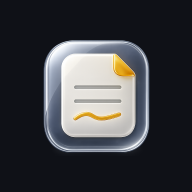
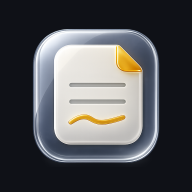
ui: maskable 아이콘 확대 + 북 테마를 전자책 리더처럼
[1. 맥에서 아이콘이 작게 보이던 문제]
크롬은 설치형 앱 아이콘으로 maskable을 쓰는데, 그건 안드로이드 원형 크롭
대비로 0.62(실제 아트 55%)로 잡아둔 값이라 맥/데스크톱에서는 여백만 커 보였다.
- 0.62 → 0.74 (실제 아트 66%)
- 안전구역 계산상 내접 정사각형은 0.566이지만, 실제 마스크는 대부분
  squircle/둥근사각형이라 훨씬 크고 우리 아트도 둥근 사각형이라
  모서리가 조금 잘려도 티가 안 난다. 0.62는 지나치게 보수적이었다

[2. 북 테마 — 전자책 느낌]
기존엔 본문 폰트만 세리프라 "책"보다 "베이지 테마"에 가까웠다.
읽는 느낌을 만드는 건 색이 아니라 활자·행간·한 줄 길이·대비라서 그쪽을 손봤다.

- 활자: 제목·목록·홈 카드까지 세리프로 통일. UI만 산세리프로 남으면
  책 안에 앱이 끼어든 것처럼 보인다
- 행간/폭: 실제 편집기가 CodeMirror라 .bear-editor가 아니라
  .cm-content / .cm-line을 직접 잡아야 했다 (CM이 자체 font-size·max-width를
  갖고 있어 .bear-editor 지정은 전달되지 않음).
  15.5px / 줄높이 34px / 한 줄 34em 제한. 넓은 화면에서 글이 끝까지 늘어지면
  다음 줄 첫 글자를 찾기 어려워 읽는 속도가 떨어진다
- .cm-line의 공책 괘선(border-bottom) 제거 — 전자책엔 줄이 없다
- 대비: 잉크 #3D2A18 → #4A3927, 종이 #F4ECD8 → #F3EAD6.
  전자잉크는 새까맣지 않다
- 목록 구분선 제거, 카드 테두리를 종이색에 가깝게
- 모바일은 기본 규칙(16.5px)에 맞추고 한 줄 제한 해제

Changed region(s): [[0.1562, 0.125, 0.8438, 0.875]]

diff --git a/styles.css b/styles.css
@@ -250,15 +250,90 @@ body[data-theme="book"] {
   --green:#5E7A4E; --orange:#B58840; --red:#A85647; --blue:#5C7A8C; --pink:#A8784C; --cyan:#5E7A4E;
   color-scheme: light;
 }
-/* Book 본문 — 이롭게 바탕 세리프 (책 읽는 느낌) */
+/* ── Book 테마 — 전자책 리더처럼 ──────────────────────────────
+   기존엔 본문 폰트만 세리프라 "책"보다 "베이지 테마"에 가까웠다.
+   읽는 느낌을 만드는 건 색이 아니라 (1) 활자 (2) 행간 (3) 한 줄 길이
+   (4) 낮은 대비 — 네 가지라서 그쪽을 손본다. */
+
+/* (1) 활자 — 본문뿐 아니라 제목·목록·태그까지 세리프로 통일.
+   UI만 산세리프로 남으면 책 안에 앱이 끼어든 것처럼 보인다. */
 body[data-theme="book"] #memo-live-editor .cm-content,
 body[data-theme="book"] .bear-editor,
 body[data-theme="book"] .memo-editor textarea,
 body[data-theme="book"] .markdown-body,
 body[data-theme="book"] .memo-editor-header input,
-body[data-theme="book"] .journal-textarea {
+body[data-theme="book"] .journal-textarea,
+body[data-theme="book"] .memo-item-title,
+body[data-theme="book"] .memo-item-preview,
+body[data-theme="book"] .home-row-title,
+body[data-theme="book"] .home-card-title,
+body[data-theme="book"] .home-card-sub,
+body[data-theme="book"] .day-note-title,
+body[data-theme="book"] h1,
+body[data-theme="book"] h3 {
   font-family: 'IropkeBatang', 'Apple SD Gothic Neo', -apple-system, serif;
   letter-spacing: -0.005em;
+}
+
+/* (2) 행간 + (3) 한 줄 길이 — 종이책의 읽기 리듬.
+   실제 편집기는 CodeMirror라서 .cm-content / .cm-line을 직접 잡아야 한다.
+   (.bear-editor는 마운트 지점일 뿐이고 CM이 자체 font-size·max-width를 갖는다)
+   한 줄을 34em 안쪽으로 묶는 이유: 넓은 화면에서 글이 끝까지 늘어지면
+   다음 줄 첫 글자를 찾기 어려워 읽는 속도가 떨어진다. */
+body[data-theme="book"] #memo-live-editor .cm-content {
+  font-size: 15.5px;
+  max-width: 34em;
+  padding: 34px 24px 80px;
+  margin: 0 auto;
+}
+body[data-theme="book"] #memo-live-editor .cm-line {
+  min-height: 34px;
+  line-height: 34px;
+  /* 공책 괘선 제거 — 전자책엔 줄이 없다 */
+  border-bottom: none;
+}
+body[data-theme="book"] .markdown-body {
+  font-size: 15.5px;
+  line-height: 2.0;
+  padding: 34px 24px 60px;
+  max-width: 34em;
+  margin: 0 auto;
+  width: 100%;
+}
+@media (max-width: 768px) {
+  /* 모바일 기본 규칙이 가독성 때문에 16.5px로 키우므로 북 테마도 맞춘다.
+     좁은 화면에선 한 줄 제한이 의미 없으니 폭 제한도 푼다. */
+  body[data-theme="book"] #memo-live-editor .cm-content {
+    padding: 18px 18px 140px !important;
+    max-width: 100%;
+    font-size: 16.5px;
+  }
+  body[data-theme="book"] .markdown-body {
+    padding: 18px 18px 60px; max-width: 100%; font-size: 16.5px;
+  }
+}
+
+/* 문단 사이를 벌려 장(章) 구분처럼 — 종이책의 여백감 */
+body[data-theme="book"] .markdown-body p { margin: 0 0 1.1em; }
+body[data-theme="book"] .markdown-body h1 {
+  font-size: 24px; border-bottom: none;
+  margin: 32px 0 14px; text-align: center; letter-spacing: 0.02em;
+}
+body[data-theme="book"] .markdown-body h2 { font-size: 19px; margin: 26px 0 10px; }
+
+/* (4) 낮은 대비 — 전자잉크는 새까맣지 않다.
+   본문 잉크를 살짝 눅이고 종이도 한 톤 가라앉혀 눈부심을 줄인다. */
+body[data-theme="book"] {
+  --text: #4A3927;
+  --bg: #F3EAD6;
+  --surface: #F8F1DF;
+}
+/* 구분선은 거의 지운다 — 책에는 격자가 없다 */
+body[data-theme="book"] .memo-item { border-bottom: none; }
+body[data-theme="book"] .home-card,
+body[data-theme="book"] .set-group,
+body[data-theme="book"] .day-notes-card {
+  border-color: rgba(124, 92, 58, 0.16);
 }
 
 /* Handwritten — 따뜻한 살구 + 손글씨(메모먼트 꾸꾸꾹) 모든 글자에 적용 */

diff --git a/index.html b/index.html
@@ -26,7 +26,7 @@
 <link rel="preconnect" href="https://fonts.gstatic.com" crossorigin>
 <link href="https://fonts.googleapis.com/css2?family=Crimson+Pro:ital,wght@0,400;0,500;0,600;0,700;1,400&family=Inter:wght@400;500;600;700;800&display=swap" rel="stylesheet">
 <link href="https://fonts.googleapis.com/css2?family=Material+Symbols+Rounded:opsz,wght,FILL,GRAD@20..48,300..600,0..1,-25..200&display=swap" rel="stylesheet">
-<link rel="stylesheet" href="styles.css?v=20260729k">
+<link rel="stylesheet" href="styles.css?v=20260729l">
 </head>
 <body>
 <div class="app">

diff --git a/service-worker.js b/service-worker.js
@@ -8,7 +8,7 @@
 //   - 사장님 PWA에서 옛 SW가 캐시 잡고 있던 케이스 대응: install·activate 시 ALL 캐시
 //     삭제 + 클라이언트에 reload 메시지 전송 (controllerchange 발생 시 main.js가 reload)
 
-const CACHE_NAME = 'mindflow-cache-v33'; // Google 일정 월 단위 로드
+const CACHE_NAME = 'mindflow-cache-v34'; // maskable 아이콘 확대 + 북 테마 전자책화
 
 self.addEventListener('install', (event) => {
   event.waitUntil((async () => {

diff --git a/tools/gen-icons.js b/tools/gen-icons.js
@@ -185,8 +185,8 @@ function render(N, fill, CROP) {
 const jobs = [
   ['icon-192.png', 192, 1.0, CROP_TIGHT],
   ['icon-512.png', 512, 1.0, CROP_TIGHT],
-  ['icon-192-maskable.png', 192, 0.62, CROP_LOOSE],
-  ['icon-512-maskable.png', 512, 0.62, CROP_LOOSE],
+  ['icon-192-maskable.png', 192, 0.74, CROP_LOOSE],
+  ['icon-512-maskable.png', 512, 0.74, CROP_LOOSE],
   ['apple-touch-icon-180.png', 180, 1.0, CROP_TIGHT],
 ];
 for (const [name, N, fill, crop] of jobs) {
